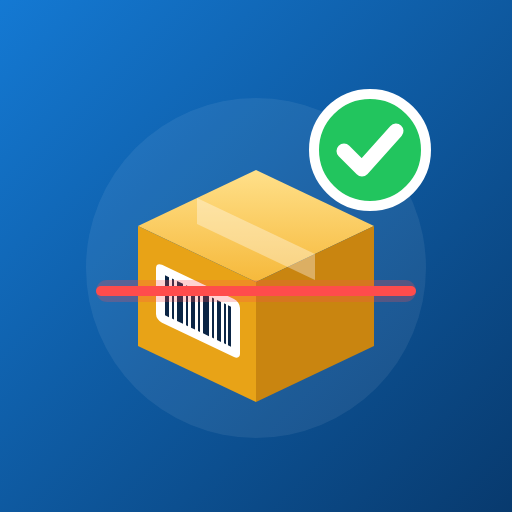
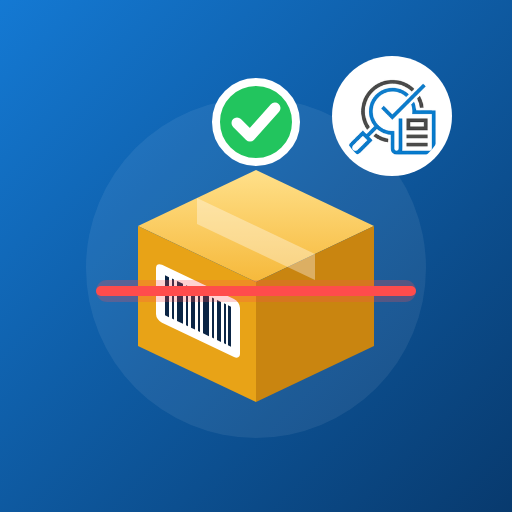
تحضير المخزن: لوجو مدقق في الأيقونة والصح فوق الكرتونة
Claude-Session: https://claude.ai/code/session_0176JSfWiMCZHg4ykvAJNv7o

Changed region(s): [[0.4062, 0.0938, 0.9062, 0.4375]]

diff --git a/warehouse/index.html b/warehouse/index.html
@@ -57,7 +57,7 @@
   #intro .ibox { width: 150px; height: 150px; border-radius: 34px; overflow: hidden; box-shadow: 0 18px 50px rgba(0,0,0,.35); animation: ipop .55s cubic-bezier(.2,1.4,.4,1) both; }
   #intro .iico { width: 100%; height: 100%; display: block; }
   #intro .iscan { animation: isweep 1s .35s ease-in-out both; }
-  #intro .icheck { transform-origin: 370px 150px; animation: icheck .45s 1.15s cubic-bezier(.2,1.6,.4,1) both; }
+  #intro .icheck { transform-origin: 256px 122px; animation: icheck .45s 1.15s cubic-bezier(.2,1.6,.4,1) both; }
   #intro .iname { font-size: 28px; font-weight: 800; margin-top: 14px; animation: iup .5s .5s both; }
   #intro .isub { font-size: 14px; opacity: .85; animation: iup .5s .65s both; }
   #intro .ilogos { display: flex; align-items: center; gap: 10px; margin-top: 26px; background: #fff; border-radius: 16px; padding: 8px 14px; animation: iup .5s .85s both; }
@@ -288,8 +288,9 @@
 <body>
 <!-- الانترو -->
 <div id="intro">
-  <div class="ibox"><svg xmlns="http://www.w3.org/2000/svg" viewBox="0 0 512 512" class="iico" aria-hidden="true">
+  <div class="ibox"><svg xmlns="http://www.w3.org/2000/svg" xmlns:xlink="http://www.w3.org/1999/xlink" viewBox="0 0 512 512" class="iico" aria-hidden="true">
   <defs>
+    <clipPath id="mqc"><circle cx="392" cy="116" r="52"/></clipPath>
     <linearGradient id="bg" x1="0" y1="0" x2="1" y2="1">
       <stop offset="0" stop-color="#1479D3"/><stop offset="1" stop-color="#083A6E"/>
     </linearGradient>
@@ -318,9 +319,12 @@
   </g>
   <!-- خط المسح -->
   <g class="iscan"><rect x="96" y="286" width="320" height="10" rx="5" fill="#FF4D4D"/><rect x="96" y="280" width="320" height="22" rx="11" fill="#FF4D4D" opacity=".25"/></g>
-  <!-- علامة صح -->
-  <g class="icheck"><circle cx="370" cy="150" r="56" fill="#22C55E" stroke="#fff" stroke-width="10"/>
-  <path d="M344 151 l18 18 l34 -38" fill="none" stroke="#fff" stroke-width="15" stroke-linecap="round" stroke-linejoin="round"/></g>
+  <!-- علامة صح فوق الكرتونة -->
+  <g class="icheck"><circle cx="256" cy="122" r="40" fill="#22C55E" stroke="#fff" stroke-width="8"/>
+  <path d="M237 123 l13 13 l25 -28" fill="none" stroke="#fff" stroke-width="11" stroke-linecap="round" stroke-linejoin="round"/></g>
+  <!-- لوجو مدقق -->
+  <circle cx="392" cy="116" r="60" fill="#fff"/>
[1 lines of base64/hex data omitted]
 </svg></div>
   <div class="iname">تحضير المخزن</div>
   <div class="isub">تحضير طلبيات الفروع بالباركود</div>
